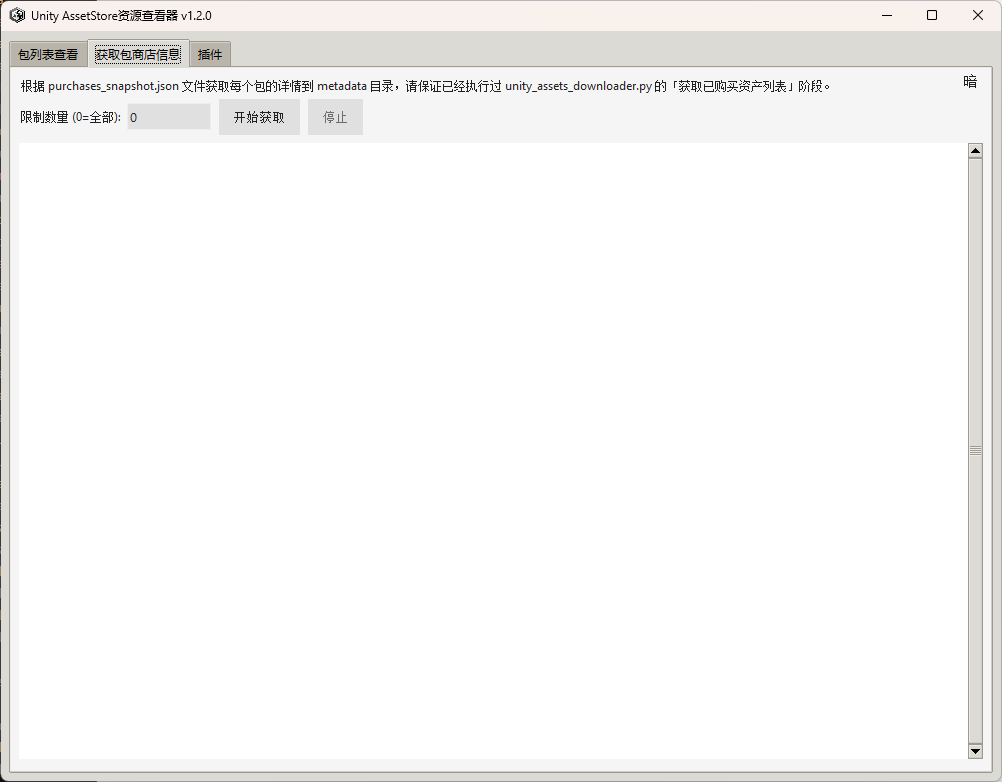
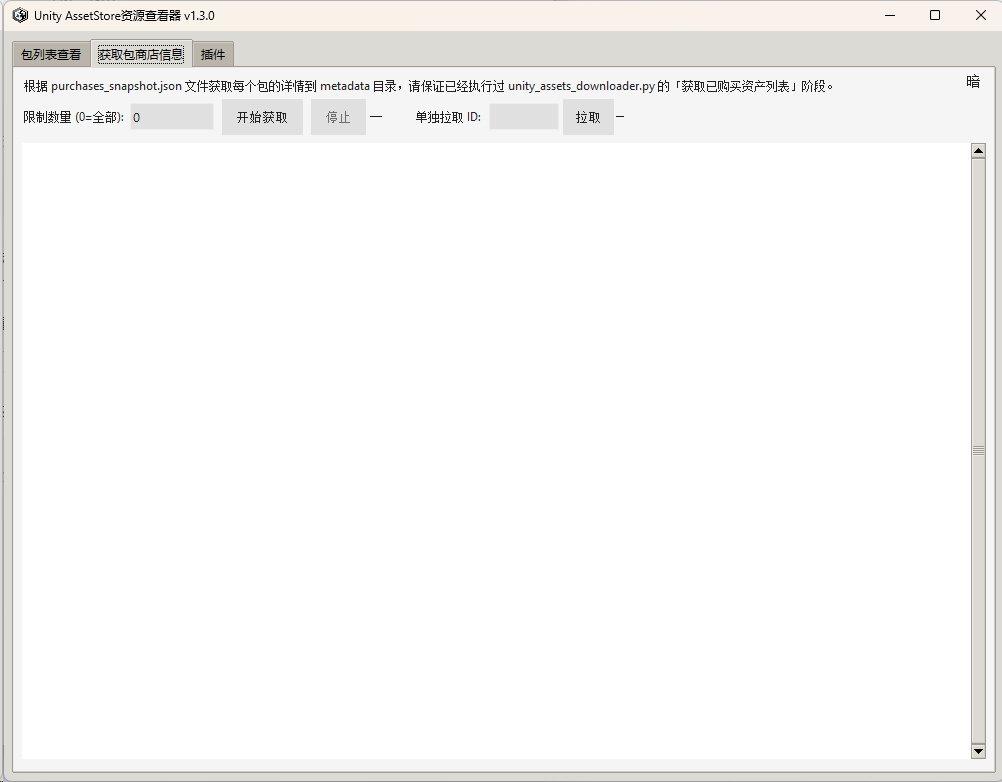
提交readme

Changed region(s): [[0.0, 0.0, 0.8353, 1.0], [0.9591, 0.0614, 1.0, 1.0], [0.9591, 0.0, 1.0, 0.0307]]

diff --git a/view_packages.py b/view_packages.py
@@ -1639,6 +1639,8 @@ class PackageViewerApp:
 
         self._filter_type_vars = {}
         self._filter_type_group_frames = {}
+        self._filter_type_children = {}
+        self._filter_type_checkbuttons = {}
         type_counts = self._collect_category_counts()
         if type_counts:
             self._build_type_tree(type_inner, type_counts)
@@ -1727,6 +1729,46 @@ class PackageViewerApp:
                 pass
         return counts
 
+    def _set_type_checkbutton_state(self, name: str, checked: bool = False, partial: bool = False):
+        """同步设置类型筛选复选框的显示状态。partial=True 时显示半勾选。"""
+        var = self._filter_type_vars.get(name)
+        if var is not None:
+            var.set(bool(checked))
+        cb = getattr(self, "_filter_type_checkbuttons", {}).get(name)
+        if cb and cb.winfo_exists():
+            if checked:
+                cb.state(["selected", "!alternate"])
+            elif partial:
+                cb.state(["!selected", "alternate"])
+            else:
+                cb.state(["!selected", "!alternate"])
+
+    def _refresh_type_parent_state(self, parent_name: str):
+        """根据子级勾选情况回推父级：未选 / 半选 / 全选。"""
+        children = getattr(self, "_filter_type_children", {}).get(parent_name, [])
+        if not children:
+            return
+        selected_count = sum(1 for child in children if self._filter_type_vars.get(child) and self._filter_type_vars[child].get())
+        if selected_count <= 0:
+            self._set_type_checkbutton_state(parent_name, checked=False, partial=False)
+        elif selected_count == len(children):
+            self._set_type_checkbutton_state(parent_name, checked=True, partial=False)
+        else:
+            self._set_type_checkbutton_state(parent_name, checked=False, partial=True)
+
+    def _on_type_parent_toggle(self, parent_name: str):
+        """点击父级时，同步全选/取消该父级下的所有子级。"""
+        target = bool(self._filter_type_vars[parent_name].get())
+        for child_name in self._filter_type_children.get(parent_name, []):
+            self._set_type_checkbutton_state(child_name, checked=target, partial=False)
+        self._refresh_type_parent_state(parent_name)
+        self._apply_filter_to_list()
+
+    def _on_type_child_toggle(self, parent_name: str):
+        """点击子级时，更新父级为未选、半选或全选。"""
+        self._refresh_type_parent_state(parent_name)
+        self._apply_filter_to_list()
+
     def _build_type_tree(self, parent, type_counts: dict):
         """将扁平的分类计数构建为可折叠的树形 UI（仿 Unity Asset Store 官网筛选样式）"""
         bg = parent.cget("bg")
@@ -1753,12 +1795,14 @@ class PackageViewerApp:
                 self._filter_type_vars[top_name] = tk.BooleanVar(value=False)
                 row = tk.Frame(parent, bg=bg)
                 row.pack(anchor=tk.W, fill=tk.X, pady=1)
-                ttk.Checkbutton(
+                cb = ttk.Checkbutton(
                     row, text=f"{top_name}",
                     variable=self._filter_type_vars[top_name],
                     command=self._apply_filter_to_list,
                     style="Web.Card.TCheckbutton",
-                ).pack(side=tk.LEFT)
+                )
+                cb.pack(side=tk.LEFT)
+                self._filter_type_checkbuttons[top_name] = cb
                 tk.Label(row, text=f"({cnt})", font=("Segoe UI", 9),
                          bg=bg, fg=fg_count).pack(side=tk.LEFT, padx=(2, 0))
                 continue
@@ -1771,10 +1815,11 @@ class PackageViewerApp:
             cb = ttk.Checkbutton(
                 header, text=f"{top_name}",
                 variable=self._filter_type_vars[top_name],
-                command=self._apply_filter_to_list,
+                command=lambda name=top_name: self._on_type_parent_toggle(name),
                 style="Web.Card.TCheckbutton",
             )
             cb.pack(side=tk.LEFT)
+            self._filter_type_checkbuttons[top_name] = cb
             tk.Label(header, text=f"({node['_total']})", font=("Segoe UI", 9),
                      bg=bg, fg=fg_count).pack(side=tk.LEFT, padx=(2, 0))
 
@@ -1784,6 +1829,7 @@ class PackageViewerApp:
 
             child_frame = tk.Frame(parent, bg=bg)
             self._filter_type_group_frames[top_name] = (arrow_lbl, child_frame, expanded)
+            self._filter_type_children[top_name] = []
 
             top_depth = top_name.count("/") + 1
             for full_name in sorted(children.keys()):
@@ -1792,15 +1838,18 @@ class PackageViewerApp:
                 depth = full_name.count("/") - top_depth + 1
                 indent = max(depth, 1) * 20
                 self._filter_type_vars[full_name] = tk.BooleanVar(value=False)
+                self._filter_type_children[top_name].append(full_name)
                 row = tk.Frame(child_frame, bg=bg)
                 row.pack(anchor=tk.W, fill=tk.X, pady=1)
                 tk.Frame(row, width=indent, bg=bg).pack(side=tk.LEFT)
-                ttk.Checkbutton(
+                cb = ttk.Checkbutton(
                     row, text=f"{display}",
                     variable=self._filter_type_vars[full_name],
-                    command=self._apply_filter_to_list,
+                    command=lambda name=top_name: self._on_type_child_toggle(name),
                     style="Web.Card.TCheckbutton",
-                ).pack(side=tk.LEFT)
+                )
+                cb.pack(side=tk.LEFT)
+                self._filter_type_checkbuttons[full_name] = cb
                 tk.Label(row, text=f"({cnt})", font=("Segoe UI", 9),
                          bg=bg, fg=fg_count).pack(side=tk.LEFT, padx=(2, 0))
 
@@ -1852,8 +1901,8 @@ class PackageViewerApp:
     def _filter_clear(self):
         """清除筛选器：取消所有勾选并清空搜索"""
         self._filter_search_var.set("")
-        for v in self._filter_type_vars.values():
-            v.set(False)
+        for name in self._filter_type_vars.keys():
+            self._set_type_checkbutton_state(name, checked=False, partial=False)
         for v in getattr(self, "_filter_pub_vars", {}).values():
             v.set(False)
         self._filter_pub_search.set("")

diff --git a/README.md b/README.md
@@ -23,6 +23,12 @@
 - **包详情链接跳转**：详情中的超链接点击后使用系统默认浏览器打开，方便访问文档、演示、论坛等
 - **折叠内容获取**：获取并展示官网的折叠区块，包括概述、可编程渲染管线 (SRP) 兼容性、技术细节等
 
+### v1.3.0
+
+- **Emoji 显示**：包详情中的 emoji 正确展示
+- **分类筛选优化**：类型筛选改为可折叠树形结构，支持按父级归类展开子项勾选
+- **单个包商店信息获取**：支持单个包单独商店信息获取
+
 适用场景：整理素材库、选包时快速查说明、备份包元数据等。
 
 获取包商店信息通常 1～2 小时即可完成，请保证已经执行过 unity_assets_downloader.py 的「获取已购买资产列表」阶段。可以优先获取包商店信息提前浏览资源列表，等待 unity_assets_downloader.py 下载结束。
